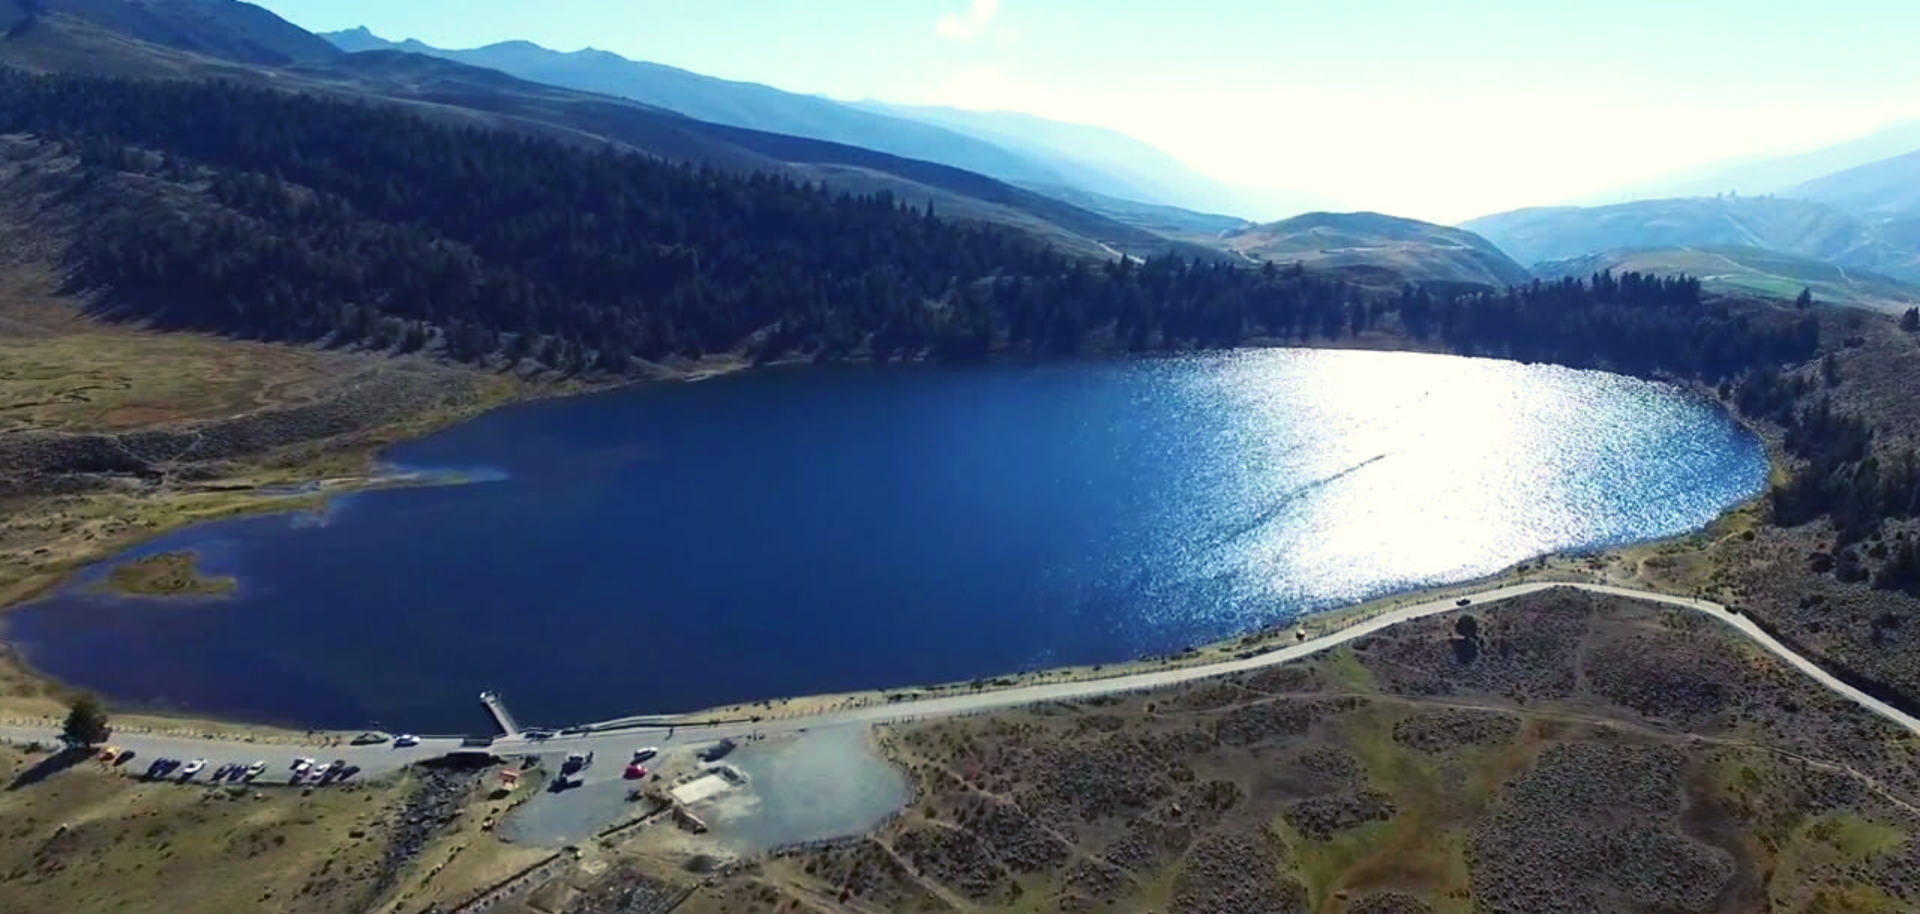
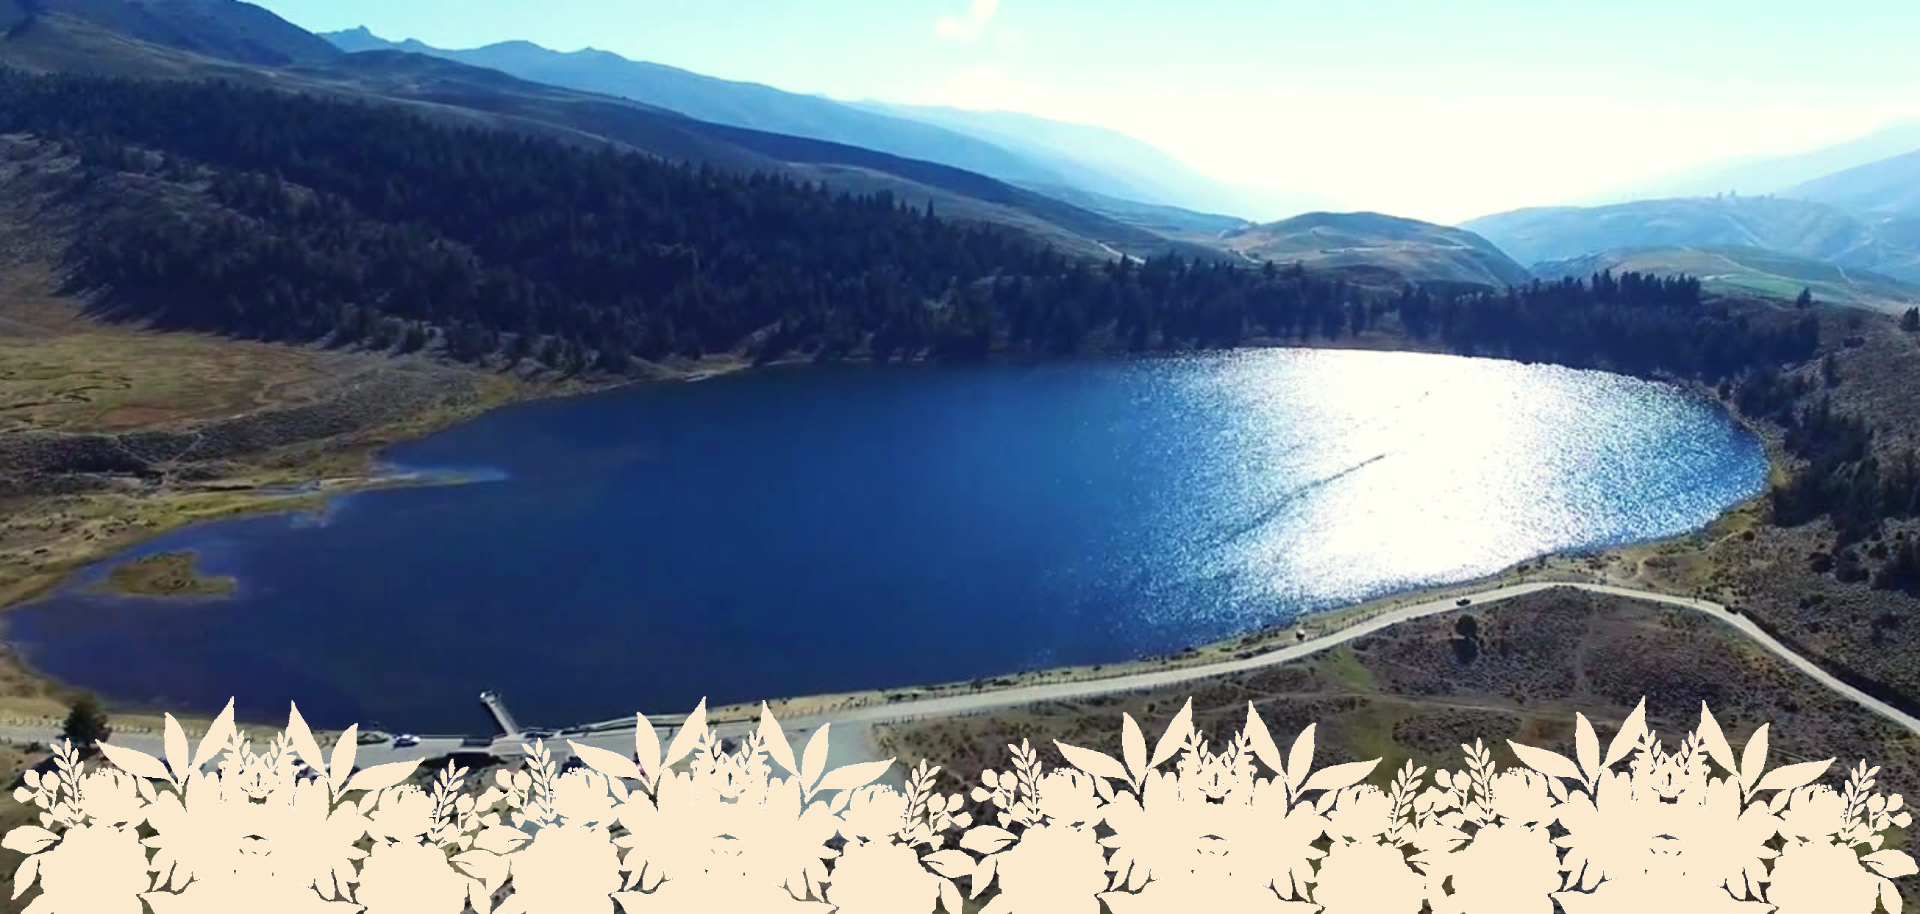
home

Changed region(s): [[0.0, 0.7659, 1.0, 1.0]]

diff --git a/src/app/components/home/home.component.scss b/src/app/components/home/home.component.scss
@@ -1,3 +1,7 @@
+.flores{
+  position: relative;
+  top:50%;
+}
 .actividades{
   margin: 0;
   padding: 0;
@@ -115,7 +119,7 @@
   /* Style the button and place it in the middle of the container/image */
   .containe .btn {
     position: absolute;
-    top: 75%;
+    top: 68%;
     left: 50%;
     transform: translate(-50%, -50%);
     -ms-transform: translate(-50%, -50%);
@@ -123,7 +127,7 @@
     border-radius: 10px;
     color: white;
     font-size: 16px;
-    padding: 12px 24px;
+    padding: 10px 20px;
     border: none;
     cursor: pointer;
     font-family: Oswald;
@@ -142,7 +146,7 @@
 
   .centered1 {
     position: absolute;
-    top: 45%;
+    top: 35%;
     left: 50%;
     transform: translate(-50%, -50%);
     font-family: 'Sedgwick Ave Display', cursive;
@@ -150,8 +154,8 @@
     text-shadow: 0px 4px 4px rgba(0, 0, 0, 0.25);
     font-style: normal;
     font-weight: normal;
-    font-size: 320%;
-    line-height: 61px;
+    font-size: 319%;
+    line-height: 60px;
     display: flex;
     align-items: center;
     text-align: center;
@@ -161,7 +165,7 @@
 
   .centered2 {
     position: absolute;
-    top: 52%;
+    top: 42%;
     left: 50%;
     transform: translate(-50%, -50%);
     font-family: Rock Salt;
@@ -169,8 +173,8 @@
     text-shadow: 0px 4px 4px rgba(0, 0, 0, 0.25);
     font-style: normal;
     font-weight: normal;
-    font-size: 155%;
-    line-height: 74px;
+    font-size: 150%;
+    line-height: 70px;
     display: flex;
     align-items: center;
     text-align: center;
@@ -270,7 +274,7 @@
   /* Style the button and place it in the middle of the container/image */
   .containe .btn {
     position: absolute;
-    top: 76%;
+    top: 70%;
     left: 50%;
     transform: translate(-50%, -50%);
     -ms-transform: translate(-50%, -50%);
@@ -297,7 +301,7 @@
 
   .centered1 {
     position: absolute;
-    top: 45%;
+    top: 37%;
     left: 50%;
     transform: translate(-50%, -50%);
     font-family: 'Sedgwick Ave Display', cursive;
@@ -316,7 +320,7 @@
 
   .centered2 {
     position: absolute;
-    top: 53%;
+    top: 45%;
     left: 50%;
     transform: translate(-50%, -50%);
     font-family: Rock Salt;

diff --git a/src/app/components/home/home.component.html b/src/app/components/home/home.component.html
@@ -78,7 +78,7 @@
     </div>
 
     <div class="container-fluid abajo text-center"> 
-        <img src="../../../assets/img/algo.png" alt="Opciones" class="full">
+        <img src="../../../assets/img/algo.jpg" alt="Opciones" class="full">
         <p class="title1">HOTELES</p>
         <div class="hoteles row container-fluid">
             <div class="col">
